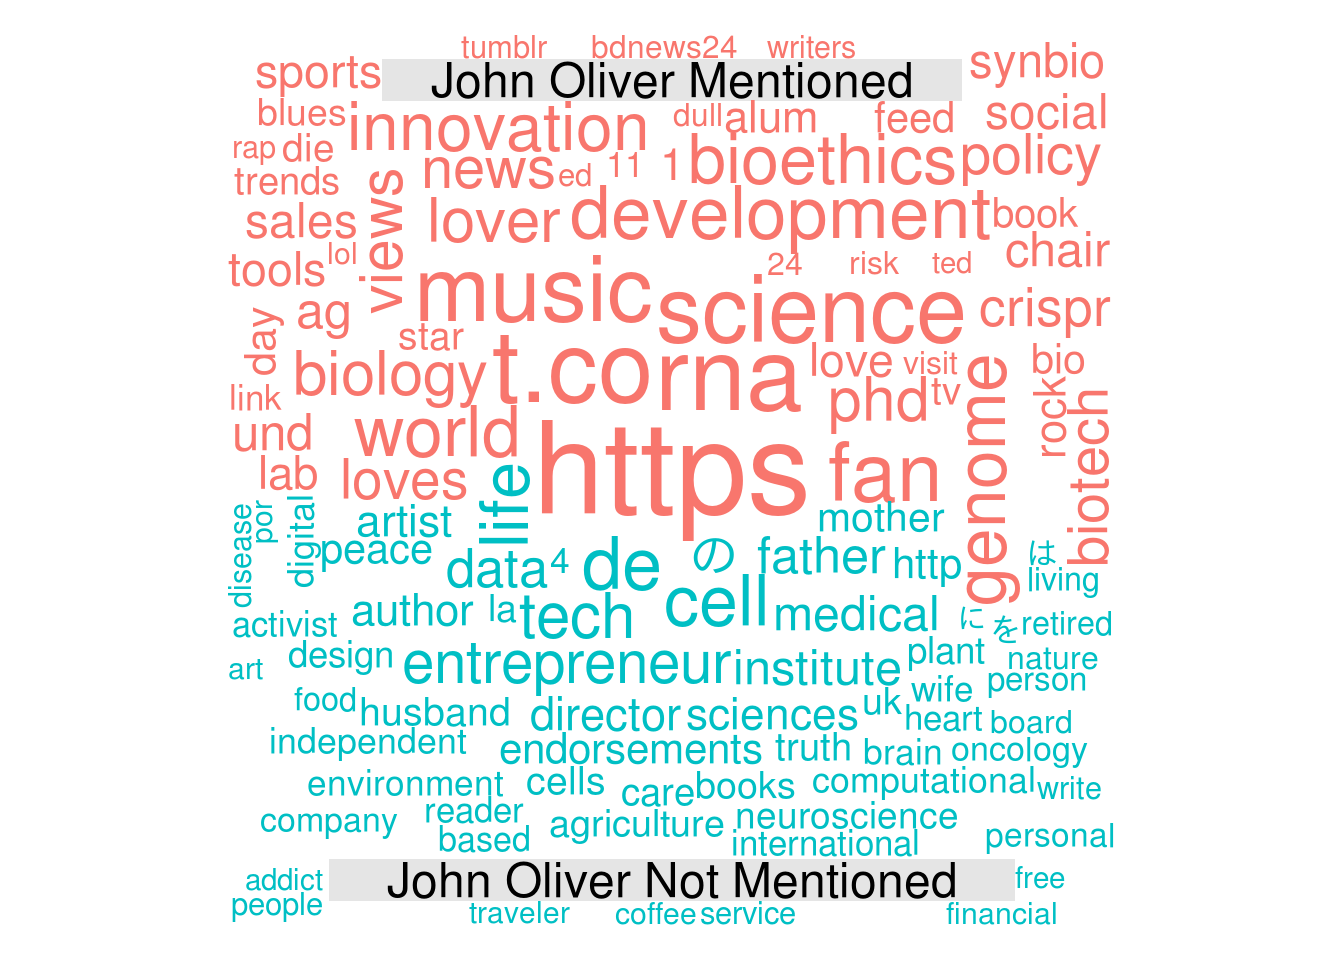
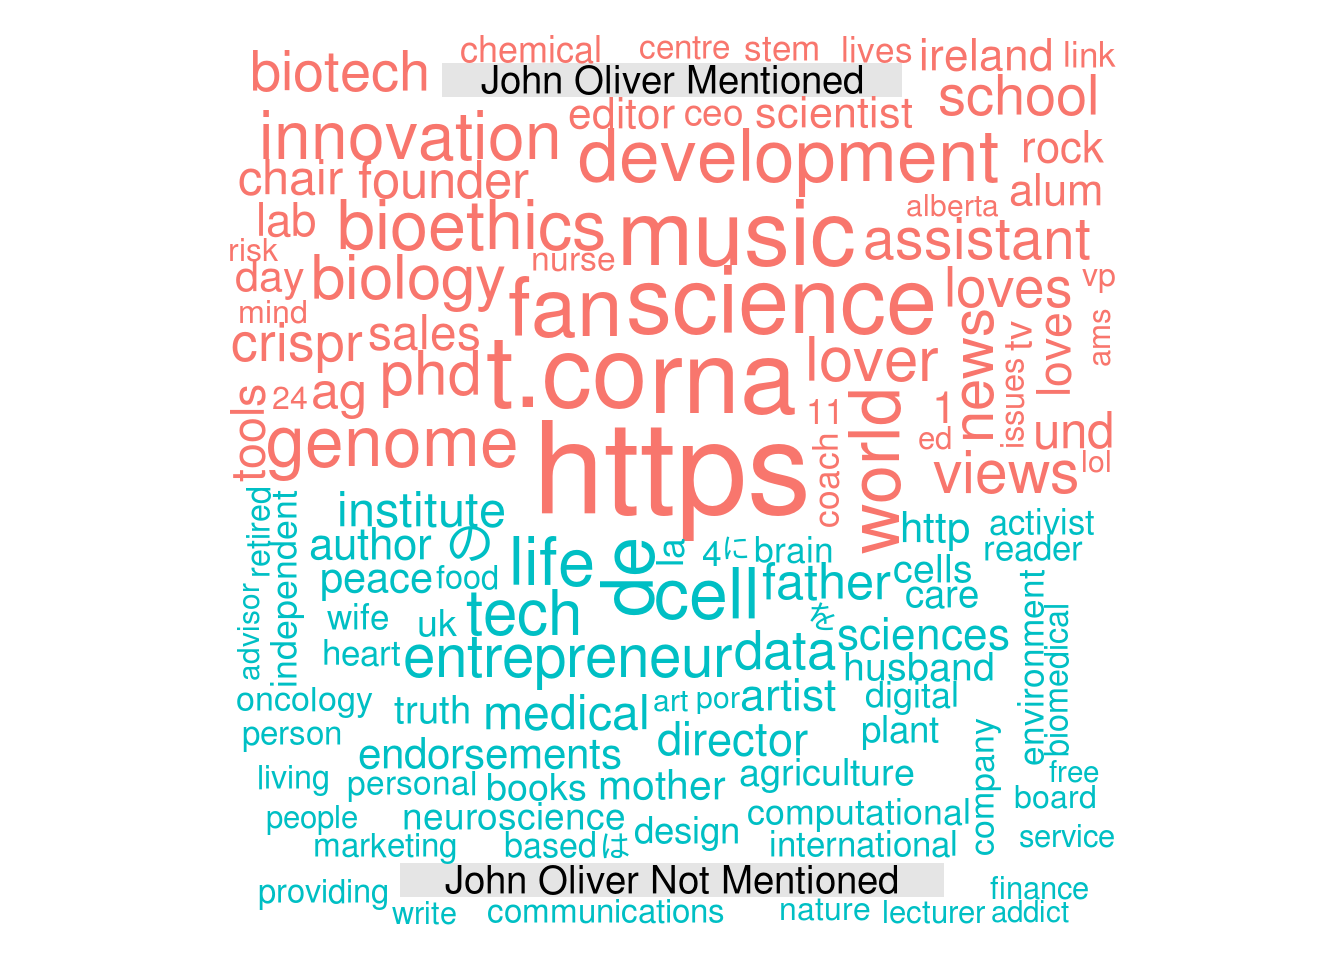
JO update 8.15.2

Changed region(s): [[0.1562, 0.0312, 0.8438, 0.9688]]

diff --git a/public/categories/index.html b/public/categories/index.html
@@ -7,7 +7,7 @@
 	<meta name="description" content="Your description">
 	<meta name="author" content="Dan Bernstein">
 	<meta name="generator" content="Hugo 0.40.3" />
-	<title>Categories &middot; Data By Dan</title>
+	<title> &middot; Data By Dan</title>
 	<!-- Stylesheets -->
 	
 	<link rel="stylesheet" href="/css/main.css"/>
@@ -70,7 +70,7 @@
                     <div class="inner">
 			
                         <header class="major">
-                            <h1>Categories</h1>
+                            <h1></h1>
                         </header>
                         <div class="content">
                             
@@ -81,17 +81,136 @@
                 <section id="two" class="spotlights">
                     
                     <section>
-                        <a href="" class="image">
+                        <a href="post/dc-open-data" class="image">
 							<img src="/img/blogs/" alt="" data-position="center center" />
 						</a>
                         <div class="content">
                             <div class="inner">
                                 <header class="major">
-                                    <h3></h3>
+                                    <h3>DC Open Data</h3>
                                 </header>
-                                <p></p>
+                                <p>Analyzing DC&#39;s public inventory of urban datasets</p>
                                 <ul class="actions">
-                                    <li><a href="" class="button">Learn more</a></li>
+                                    <li><a href="post/dc-open-data" class="button">Learn more</a></li>
+                                </ul>
+                            </div>
+                        </div>
+                    </section>
+                    
+                    <section>
+                        <a href="post/dc-open-data" class="image">
+							<img src="/img/blogs/" alt="" data-position="center center" />
+						</a>
+                        <div class="content">
+                            <div class="inner">
+                                <header class="major">
+                                    <h3>DC Open Data</h3>
+                                </header>
+                                <p>Analyzing DC&#39;s public inventory of urban datasets</p>
+                                <ul class="actions">
+                                    <li><a href="post/dc-open-data" class="button">Learn more</a></li>
+                                </ul>
+                            </div>
+                        </div>
+                    </section>
+                    
+                    <section>
+                        <a href="tempus" class="image">
+							<img src="/img/blogs/pic08.jpg" alt="" data-position="center center" />
+						</a>
+                        <div class="content">
+                            <div class="inner">
+                                <header class="major">
+                                    <h3>Analyzing Corticosteroids For Psoriasis</h3>
+                                </header>
+                                <p>My undergraduate thesis that gave me an introduction to R, SAS, and the wonderful world of government data</p>
+                                <ul class="actions">
+                                    <li><a href="tempus" class="button">Learn more</a></li>
+                                </ul>
+                            </div>
+                        </div>
+                    </section>
+                    
+                    <section>
+                        <a href="tempus" class="image">
+							<img src="/img/blogs/pic08.jpg" alt="" data-position="center center" />
+						</a>
+                        <div class="content">
+                            <div class="inner">
+                                <header class="major">
+                                    <h3>Analyzing Corticosteroids For Psoriasis</h3>
+                                </header>
+                                <p>My undergraduate thesis that gave me an introduction to R, SAS, and the wonderful world of government data</p>
+                                <ul class="actions">
+                                    <li><a href="tempus" class="button">Learn more</a></li>
+                                </ul>
+                            </div>
+                        </div>
+                    </section>
+                    
+                    <section>
+                        <a href="magna" class="image">
+							<img src="/img/blogs/pic09.jpg" alt="" data-position="center center" />
+						</a>
+                        <div class="content">
+                            <div class="inner">
+                                <header class="major">
+                                    <h3>Text Mining</h3>
+                                </header>
+                                <p>Examining Language Trends in the State of the Union</p>
+                                <ul class="actions">
+                                    <li><a href="magna" class="button">Learn more</a></li>
+                                </ul>
+                            </div>
+                        </div>
+                    </section>
+                    
+                    <section>
+                        <a href="magna" class="image">
+							<img src="/img/blogs/pic09.jpg" alt="" data-position="center center" />
+						</a>
+                        <div class="content">
+                            <div class="inner">
+                                <header class="major">
+                                    <h3>Text Mining</h3>
+                                </header>
+                                <p>Examining Language Trends in the State of the Union</p>
+                                <ul class="actions">
+                                    <li><a href="magna" class="button">Learn more</a></li>
+                                </ul>
+                            </div>
+                        </div>
+                    </section>
+                    
+                    <section>
+                        <a href="ipsum" class="image">
+							<img src="/img/blogs/pic10.jpg" alt="" data-position="center center" />
+						</a>
+                        <div class="content">
+                            <div class="inner">
+                                <header class="major">
+                                    <h3>bikeshareviz</h3>
+                                </header>
+                                <p>explore the most popular routes on the Capital Bikeshare network</p>
+                                <ul class="actions">
+                                    <li><a href="ipsum" class="button">Learn more</a></li>
+                                </ul>
+                            </div>
+                        </div>
+                    </section>
+                    
+                    <section>
+                        <a href="ipsum" class="image">
+							<img src="/img/blogs/pic10.jpg" alt="" data-position="center center" />
+						</a>
+                        <div class="content">
+                            <div class="inner">
+                                <header class="major">
+                                    <h3>bikeshareviz</h3>
+                                </header>
+                                <p>explore the most popular routes on the Capital Bikeshare network</p>
+                                <ul class="actions">
+                                    <li><a href="ipsum" class="button">Learn more</a></li>
                                 </ul>
                             </div>
                         </div>

diff --git a/public/post/the-john-oliver-effect/index.html b/public/post/the-john-oliver-effect/index.html
@@ -113,6 +113,7 @@
 <div id="in-terms-of-the-personal-bios-describing-the-twitter-users" class="section level5">
 <h5>In terms of the personal bios describing the twitter users</h5>
 <p>There are approximately 26,000 unique twitter users in the dataset, of which about 3000 did not have a bio description as of August 2018. The users were classified into three groups for comparison: 1) tweeted about crispr only in conjunction with John Oliver (~300 users), 2) tweeted about crispr both in conjunction with John Oliver and elsewhere (~187 users), 3) tweeted about crispr but never in conjunction with John Oliver (~26340 users). The wordcloud below gives a general understanding of the personal descriptions for these three groups, where the text size of each word is a measure of the words frequency within the group, not across groups (for example, the same text size in groups 1 and 2 does not indicate the same frequencies).</p>
+<p>In the below plots, A indicates users who only mentioned CRISPR in conjunction with John Oliver, B indicates users who never mentioned John Oliver, and C indicates uers who mentioned CRISPR both in conjunction and others.</p>
 <p><img src="/post/2018-07-30-the-john-oliver-effect_files/figure-html/unnamed-chunk-5-1.png" width="672" style="display: block; margin: auto;" /></p>
 <p><img src="/post/2018-07-30-the-john-oliver-effect_files/figure-html/unnamed-chunk-6-1.png" width="672" style="display: block; margin: auto;" /></p>
 <p>The users who mentioned crispr only alongside John Oliver (green text) show a diversity of occupational descriptions (celebrity, teacher, coach, assistant), and a number of potential media references (fan, tv, web). The users who mentioned crispr both in relation to John Oliver and in other contexts show a large preference for biomedical and scientific descriptions (genomics, biotech, research, cancer, health).</p>
@@ -125,37 +126,31 @@
 </div>
 <div id="among-users-who-first-tweeted-about-crispr-in-relation-to-john-oliver-who-are-they-retweeting" class="section level2">
 <h2>Among users who first tweeted about CRISPR in relation to John Oliver, who are they retweeting?</h2>
-<pre><code>## # A tibble: 24 x 3
+<pre><code>## # A tibble: 10 x 3
 ## # Groups:   john.y [2]
-##    john.y link.y            n
-##    &lt;chr&gt;  &lt;chr&gt;         &lt;int&gt;
-##  1 0      TheRock         763
-##  2 0      ScienceNews     738
-##  3 0      sciam           733
-##  4 0      statnews        399
-##  5 0      NatureBiotech   318
-##  6 0      nytimes         282
-##  7 0      GaetanBurgio    242
-##  8 0      nature          204
-##  9 0      newscientist    202
-## 10 0      carlzimmer      193
-## # ... with 14 more rows</code></pre>
-<p>Among the 359 users who first tweeted about CRISPR in conjunction with John Oliver, the most popular tweet sources of their first tweets were TIME (63), Synthego (43), Rolling Stone (36), and the Bulletin of the Atomic Scientists (8). When we look at the source of all retweets, the same sources top the list for both groups of users (those who tweeted about CRISPR before John Oliver and those who did not).</p>
-<pre><code>## # A tibble: 21 x 3
-## # Groups:   john.y [2]
-##    john.y link.x            n
-##    &lt;chr&gt;  &lt;chr&gt;         &lt;int&gt;
-##  1 0      ScienceNews    1160
-##  2 0      sciam          1150
-##  3 0      GaetanBurgio    959
-##  4 0      TheRock         766
-##  5 0      statnews        662
-##  6 0      NatureBiotech   648
-##  7 0      Synthego        459
-##  8 0      GENbio          345
-##  9 0      nytimes         320
-## 10 0      newscientist    319
-## # ... with 11 more rows</code></pre>
+##    john.y link.y             n
+##    &lt;chr&gt;  &lt;chr&gt;          &lt;int&gt;
+##  1 0      TheRock          763
+##  2 0      ScienceNews      738
+##  3 0      sciam            733
+##  4 0      statnews         399
+##  5 0      NatureBiotech    318
+##  6 1      TIME              63
+##  7 1      Synthego          43
+##  8 1      RollingStone      36
+##  9 1      BulletinAtomic     8
+## 10 1      tomzellerjr        8</code></pre>
+<p>Among all retweets, the most common sources are The Rock (who starred in a fictional movie about CRISPR gone wrong), Sciences New (the news branch of Science Magazine), Scientific American, STAT news, and Nature Biotechnology. Beyond the first source, mayn of the sources are academic or professional organizations with a focus on health and technology.</p>
+<pre><code>## # A tibble: 5 x 3
+## # Groups:   john [1]
+##   john  link               n
+##   &lt;chr&gt; &lt;chr&gt;          &lt;int&gt;
+## 1 1     TIME              63
+## 2 1     Synthego          43
+## 3 1     RollingStone      36
+## 4 1     BulletinAtomic     8
+## 5 1     tomzellerjr        8</code></pre>
+<p>Among the 359 users who first tweeted about CRISPR in conjunction with John Oliver, the most popular tweet sources of their first tweets were TIME (63), Synthego (43), Rolling Stone (36), and the Bulletin of the Atomic Scientists (8). When we look at the source of all retweets in this group, the same sources top the list. In comparison to the entire retweet dataset, those individuals who first retweeted about crispr in conjunction with John Oliver seem to respond to information from more general news organizations. Inter</p>
 </div>
 
                         </div>

diff --git a/content/post/2018-07-30-the-john-oliver-effect.html b/content/post/2018-07-30-the-john-oliver-effect.html
@@ -55,6 +55,7 @@ draft: no
 <div id="in-terms-of-the-personal-bios-describing-the-twitter-users" class="section level5">
 <h5>In terms of the personal bios describing the twitter users</h5>
 <p>There are approximately 26,000 unique twitter users in the dataset, of which about 3000 did not have a bio description as of August 2018. The users were classified into three groups for comparison: 1) tweeted about crispr only in conjunction with John Oliver (~300 users), 2) tweeted about crispr both in conjunction with John Oliver and elsewhere (~187 users), 3) tweeted about crispr but never in conjunction with John Oliver (~26340 users). The wordcloud below gives a general understanding of the personal descriptions for these three groups, where the text size of each word is a measure of the words frequency within the group, not across groups (for example, the same text size in groups 1 and 2 does not indicate the same frequencies).</p>
+<p>In the below plots, A indicates users who only mentioned CRISPR in conjunction with John Oliver, B indicates users who never mentioned John Oliver, and C indicates uers who mentioned CRISPR both in conjunction and others.</p>
 <p><img src="/post/2018-07-30-the-john-oliver-effect_files/figure-html/unnamed-chunk-5-1.png" width="672" style="display: block; margin: auto;" /></p>
 <p><img src="/post/2018-07-30-the-john-oliver-effect_files/figure-html/unnamed-chunk-6-1.png" width="672" style="display: block; margin: auto;" /></p>
 <p>The users who mentioned crispr only alongside John Oliver (green text) show a diversity of occupational descriptions (celebrity, teacher, coach, assistant), and a number of potential media references (fan, tv, web). The users who mentioned crispr both in relation to John Oliver and in other contexts show a large preference for biomedical and scientific descriptions (genomics, biotech, research, cancer, health).</p>
@@ -67,35 +68,29 @@ draft: no
 </div>
 <div id="among-users-who-first-tweeted-about-crispr-in-relation-to-john-oliver-who-are-they-retweeting" class="section level2">
 <h2>Among users who first tweeted about CRISPR in relation to John Oliver, who are they retweeting?</h2>
-<pre><code>## # A tibble: 24 x 3
+<pre><code>## # A tibble: 10 x 3
 ## # Groups:   john.y [2]
-##    john.y link.y            n
-##    &lt;chr&gt;  &lt;chr&gt;         &lt;int&gt;
-##  1 0      TheRock         763
-##  2 0      ScienceNews     738
-##  3 0      sciam           733
-##  4 0      statnews        399
-##  5 0      NatureBiotech   318
-##  6 0      nytimes         282
-##  7 0      GaetanBurgio    242
-##  8 0      nature          204
-##  9 0      newscientist    202
-## 10 0      carlzimmer      193
-## # ... with 14 more rows</code></pre>
-<p>Among the 359 users who first tweeted about CRISPR in conjunction with John Oliver, the most popular tweet sources of their first tweets were TIME (63), Synthego (43), Rolling Stone (36), and the Bulletin of the Atomic Scientists (8). When we look at the source of all retweets, the same sources top the list for both groups of users (those who tweeted about CRISPR before John Oliver and those who did not).</p>
-<pre><code>## # A tibble: 21 x 3
-## # Groups:   john.y [2]
-##    john.y link.x            n
-##    &lt;chr&gt;  &lt;chr&gt;         &lt;int&gt;
-##  1 0      ScienceNews    1160
-##  2 0      sciam          1150
-##  3 0      GaetanBurgio    959
-##  4 0      TheRock         766
-##  5 0      statnews        662
-##  6 0      NatureBiotech   648
-##  7 0      Synthego        459
-##  8 0      GENbio          345
-##  9 0      nytimes         320
-## 10 0      newscientist    319
-## # ... with 11 more rows</code></pre>
+##    john.y link.y             n
+##    &lt;chr&gt;  &lt;chr&gt;          &lt;int&gt;
+##  1 0      TheRock          763
+##  2 0      ScienceNews      738
+##  3 0      sciam            733
+##  4 0      statnews         399
+##  5 0      NatureBiotech    318
+##  6 1      TIME              63
+##  7 1      Synthego          43
+##  8 1      RollingStone      36
+##  9 1      BulletinAtomic     8
+## 10 1      tomzellerjr        8</code></pre>
+<p>Among all retweets, the most common sources are The Rock (who starred in a fictional movie about CRISPR gone wrong), Sciences New (the news branch of Science Magazine), Scientific American, STAT news, and Nature Biotechnology. Beyond the first source, mayn of the sources are academic or professional organizations with a focus on health and technology.</p>
+<pre><code>## # A tibble: 5 x 3
+## # Groups:   john [1]
+##   john  link               n
+##   &lt;chr&gt; &lt;chr&gt;          &lt;int&gt;
+## 1 1     TIME              63
+## 2 1     Synthego          43
+## 3 1     RollingStone      36
+## 4 1     BulletinAtomic     8
+## 5 1     tomzellerjr        8</code></pre>
+<p>Among the 359 users who first tweeted about CRISPR in conjunction with John Oliver, the most popular tweet sources of their first tweets were TIME (63), Synthego (43), Rolling Stone (36), and the Bulletin of the Atomic Scientists (8). When we look at the source of all retweets in this group, the same sources top the list. In comparison to the entire retweet dataset, those individuals who first retweeted about crispr in conjunction with John Oliver seem to respond to information from more general news organizations. Inter</p>
 </div>

diff --git a/public/post/kaggle-advanced-regression/index.html b/public/post/kaggle-advanced-regression/index.html
@@ -119,11 +119,11 @@ mod</code></pre>
 ## 
 ## No pre-processing
 ## Resampling: Cross-Validated (10 fold, repeated 1 times) 
-## Summary of sample sizes: 1311, 1310, 1309, 1309, 1311, 1311, ... 
+## Summary of sample sizes: 1310, 1310, 1310, 1309, 1311, 1310, ... 
 ## Resampling results:
 ## 
 ##   RMSE       Rsquared   MAE       
-##   0.1166179  0.9145221  0.08020776</code></pre>
+##   0.1151756  0.9156843  0.07947331</code></pre>
 <p>trainControl dictates how the model will be evaluated. Here we specify that the model perform repeated cross-validation (method = “repeatedcv”). meaning we will perform k-fold cross-validation multiple times. k-fold cross-validation involves splitting the data in k groups of roughly equal size, training the data repeatedly on all but one of these groups, and then testing the model on the one group that was left out. The test error from the k models is then averaged to provide a final test error to estimate the final model parameters.</p>
 </div>
 <div id="improving-predictive-accuracy-with-stacked-ensemble-models" class="section level3">
@@ -164,8 +164,8 @@ stack.glm</code></pre>
 ## Summary of sample sizes: 1165, 1165, 1165, 1165, 1164, 1165, ... 
 ## Resampling results:
 ## 
-##   RMSE       Rsquared   MAE       
-##   0.1170068  0.9130088  0.07995077</code></pre>
+##   RMSE       Rsquared  MAE       
+##   0.1153616  0.915234  0.07997962</code></pre>
 <p>We can then predict values for the test data. The predict value is addition I made to automatically write the predicted values to a csv file for submission. &quot;</p>
 <pre class="r"><code>predict_values &lt;- function(model, test_data){
   predicted &lt;- predict(model, test_data) %&gt;% expm1(.) # to reverse log transformation

diff --git a/content/post/2018-06-30-kaggle-advanced-regression.html b/content/post/2018-06-30-kaggle-advanced-regression.html
@@ -60,11 +60,11 @@ mod</code></pre>
 ## 
 ## No pre-processing
 ## Resampling: Cross-Validated (10 fold, repeated 1 times) 
-## Summary of sample sizes: 1311, 1310, 1309, 1309, 1311, 1311, ... 
+## Summary of sample sizes: 1310, 1310, 1310, 1309, 1311, 1310, ... 
 ## Resampling results:
 ## 
 ##   RMSE       Rsquared   MAE       
-##   0.1166179  0.9145221  0.08020776</code></pre>
+##   0.1151756  0.9156843  0.07947331</code></pre>
 <p>trainControl dictates how the model will be evaluated. Here we specify that the model perform repeated cross-validation (method = “repeatedcv”). meaning we will perform k-fold cross-validation multiple times. k-fold cross-validation involves splitting the data in k groups of roughly equal size, training the data repeatedly on all but one of these groups, and then testing the model on the one group that was left out. The test error from the k models is then averaged to provide a final test error to estimate the final model parameters.</p>
 </div>
 <div id="improving-predictive-accuracy-with-stacked-ensemble-models" class="section level3">
@@ -105,8 +105,8 @@ stack.glm</code></pre>
 ## Summary of sample sizes: 1165, 1165, 1165, 1165, 1164, 1165, ... 
 ## Resampling results:
 ## 
-##   RMSE       Rsquared   MAE       
-##   0.1170068  0.9130088  0.07995077</code></pre>
+##   RMSE       Rsquared  MAE       
+##   0.1153616  0.915234  0.07997962</code></pre>
 <p>We can then predict values for the test data. The predict value is addition I made to automatically write the predicted values to a csv file for submission. &quot;</p>
 <pre class="r"><code>predict_values &lt;- function(model, test_data){
   predicted &lt;- predict(model, test_data) %&gt;% expm1(.) # to reverse log transformation
